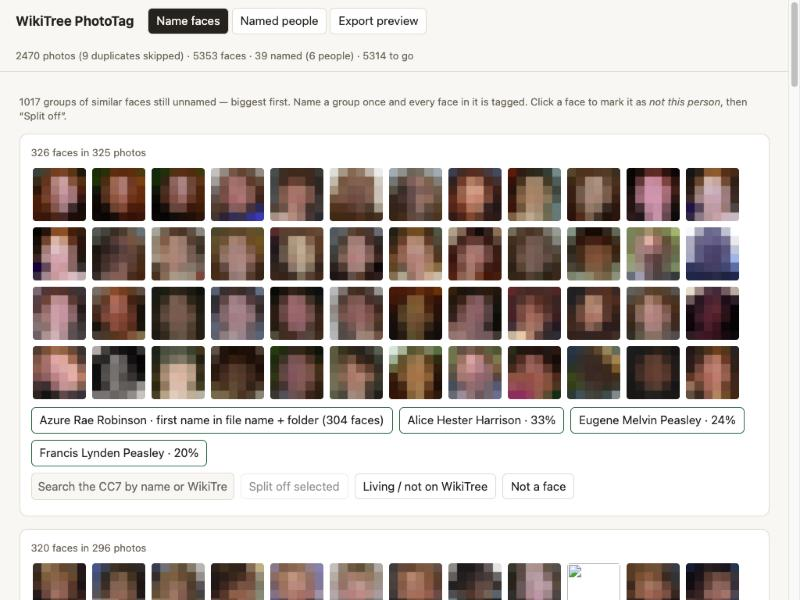
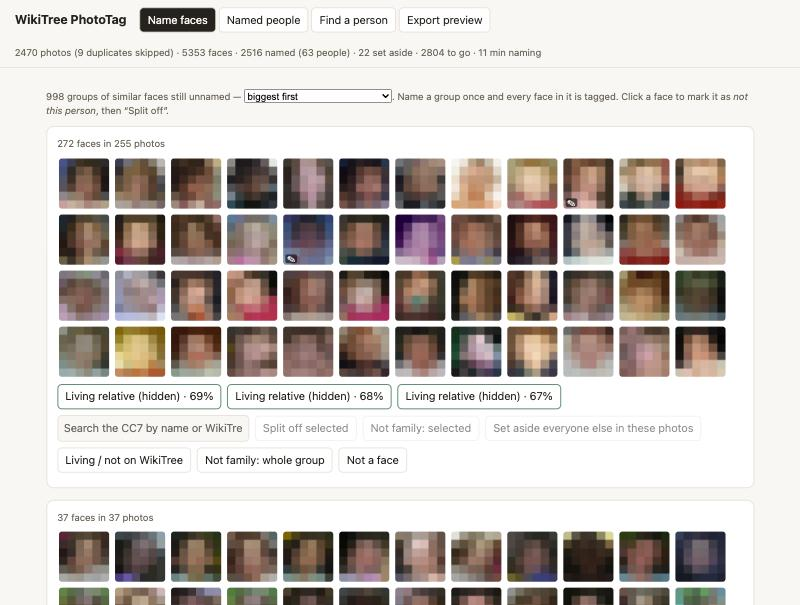
Refresh demo screenshots; blur mode hides living names; serialize requests
- new screenshots including the Find a person tab, from real data in blur mode
- blur mode hides living relatives' names and cards; --clear-born-before YEAR
  keeps recently deceased people pixelated in screenshots
- lock around request handling: parallel thumbnail requests shared one sqlite
  connection and some failed

diff --git a/phototag/web.py b/phototag/web.py
@@ -4,6 +4,7 @@ from __future__ import annotations
 import io
 import json
 import sqlite3
+import threading
 from http.server import BaseHTTPRequestHandler, ThreadingHTTPServer
 from pathlib import Path
 
@@ -53,12 +54,20 @@ def active_minutes(db: sqlite3.Connection, idle_gap_min: int = 5) -> float:
     return round(sum(min((b - a).total_seconds(), idle_gap_min * 60) for a, b in zip(t, t[1:])) / 60 if len(t) > 1 else 0.0, 1)
 
 
-def make_handler(db: sqlite3.Connection, roster: Roster, data_dir: Path, blur: bool = False, models_dir: Path | None = None):
+def make_handler(db: sqlite3.Connection, roster: Roster, data_dir: Path, blur: bool = False, models_dir: Path | None = None,
+                 clear_born_before: int | None = None):
     """blur=True hides every face except those named as deceased people, so the UI is safe to screenshot."""
     def is_public(person_id: str | None) -> bool:
-        return bool(person_id) and person_id not in (IGNORE, OTHER) and roster.is_deceased(person_id)
+        if not person_id or person_id in (IGNORE, OTHER) or not roster.is_deceased(person_id):
+            return False
+        if clear_born_before:   # screenshots: only the older generation stays unblurred
+            p = roster.get(person_id)
+            return bool(p and p.birth_year and p.birth_year < clear_born_before)
+        return True
 
     def person_json(pid):
+        if blur and pid != OTHER and not is_public(pid):   # screenshots must not name living relatives either
+            return {"id": pid, "label": "Living relative (hidden)", "name": "Living relative", "deceased": False}
         p = roster.get(pid)
         if pid == OTHER:
             return {"id": pid, "label": "Not family / unknown (set aside)", "name": "Not family", "deceased": False}
@@ -67,6 +76,8 @@ def make_handler(db: sqlite3.Connection, roster: Roster, data_dir: Path, blur: b
         if not p:
             return {"id": pid, "label": pid, "deceased": False}
         return {"id": p.id, "label": p.label, "name": p.name, "deceased": roster.is_deceased(p.id)}
+
+    lock = threading.Lock()   # one sqlite connection is shared by all request threads
 
     class Handler(BaseHTTPRequestHandler):
         def log_message(self, *a):
@@ -84,6 +95,14 @@ def make_handler(db: sqlite3.Connection, roster: Roster, data_dir: Path, blur: b
             self._send(json.dumps(obj).encode(), "application/json", status)
 
         def do_GET(self):
+            with lock:
+                self._get()
+
+        def do_POST(self):
+            with lock:
+                self._post()
+
+        def _get(self):
             from urllib.parse import urlparse, parse_qs
             u = urlparse(self.path)
             q = {k: v[0] for k, v in parse_qs(u.query).items()}
@@ -169,6 +188,8 @@ def make_handler(db: sqlite3.Connection, roster: Roster, data_dir: Path, blur: b
                 out = []
                 for r in db.execute("SELECT person_id, COUNT(*) n, COUNT(DISTINCT photo_id) photos FROM faces "
                                     "WHERE person_id IS NOT NULL AND person_id != '!ignore' GROUP BY person_id ORDER BY (person_id = '!other'), n DESC"):
+                    if blur and not is_public(r["person_id"]) and r["person_id"] != OTHER:
+                        continue
                     face_ids = [x[0] for x in db.execute("SELECT id FROM faces WHERE person_id=? ORDER BY score DESC LIMIT 14", (r["person_id"],))]
                     out.append({**person_json(r["person_id"]), "faces": r["n"], "photos": r["photos"], "face_ids": face_ids,
                                 "photo_ids": [x[0] for x in db.execute("SELECT photo_id FROM faces WHERE person_id=? ORDER BY score DESC LIMIT 14", (r["person_id"],))]})
@@ -200,7 +221,7 @@ def make_handler(db: sqlite3.Connection, roster: Roster, data_dir: Path, blur: b
                     "ready_people": len({p for d in ds if d.export for p in d.people})})
             self._json({"error": "unknown"}, 404)
 
-        def do_POST(self):
+        def _post(self):
             if self.headers.get("Content-Type", "").split(";")[0] != "application/json":
                 return self._json({"error": "json only"}, 415)
             body = json.loads(self.rfile.read(int(self.headers.get("Content-Length", 0))) or b"{}")
@@ -260,8 +281,9 @@ def make_handler(db: sqlite3.Connection, roster: Roster, data_dir: Path, blur: b
     return Handler
 
 
-def serve(db, roster, data_dir: Path, port: int = 8765, blur: bool = False, models_dir: Path | None = None):
-    server = ThreadingHTTPServer(("127.0.0.1", port), make_handler(db, roster, data_dir, blur, models_dir))
+def serve(db, roster, data_dir: Path, port: int = 8765, blur: bool = False, models_dir: Path | None = None,
+          clear_born_before: int | None = None):
+    server = ThreadingHTTPServer(("127.0.0.1", port), make_handler(db, roster, data_dir, blur, models_dir, clear_born_before))
     print(f"Labeling UI: http://127.0.0.1:{port}   (Ctrl-C to stop)" + ("   [privacy blur on]" if blur else ""))
     try:
         server.serve_forever()

diff --git a/phototag/cli.py b/phototag/cli.py
@@ -32,6 +32,8 @@ def main(argv=None):
     p.add_argument("--limit", type=int); p.add_argument("--model", default=backs.MODEL)
     p = sub.add_parser("label", help="open the local naming UI"); p.add_argument("--port", type=int, default=8765)
     p.add_argument("--blur", action="store_true", help="pixelate every face except deceased named people (safe for screenshots)")
+    p.add_argument("--clear-born-before", type=int, metavar="YEAR",
+                   help="with --blur: only people born before YEAR stay unblurred (e.g. 1950 keeps recently deceased relatives hidden)")
     p = sub.add_parser("accept", help="auto-name groups that clearly match people you already named")
     p.add_argument("--min", type=float, default=0.6, dest="min_score")
     p.add_argument("--hints", type=float, metavar="SHARE", help="also accept groups where one folder / full-name file name / caption hint covers this share of faces (e.g. 0.7)")
@@ -74,7 +76,7 @@ def main(argv=None):
         print(f"{backs.read_text(db, not a.all, a.limit, a.model)} scans had readable text")
     elif a.cmd == "label":
         scanning.backfill_saturation(db, a.data)
-        web.serve(db, roster, a.data, a.port, a.blur, ROOT / "models")
+        web.serve(db, roster, a.data, a.port, a.blur, ROOT / "models", a.clear_born_before)
     elif a.cmd == "seed":
         print(f"seeded {clustering.seed_from_filenames(db, roster)} faces from file names")
     elif a.cmd == "accept":

diff --git a/tests/test_web.py b/tests/test_web.py
@@ -56,3 +56,22 @@ def test_people_search_includes_locally_named_living_relatives(server):
     db.commit()
     found = json.load(urllib.request.urlopen(base + "/api/people?q=naomi%20ruth"))
     assert [p["id"] for p in found] == ["local:Naomi Ruth Robinson"]
+
+
+def test_blur_mode_hides_living_names_and_cards(roster, tmp_path):
+    db = dbm.connect(tmp_path)
+    pid = db.execute("INSERT INTO photos(path,rel,width,height) VALUES('x','x.jpg',10,10)").lastrowid
+    for who in ("Robinson-1", "Living-1", "local:Dan Robinson"):
+        db.execute("INSERT INTO faces(photo_id,x,y,w,h,score,emb,person_id,label_src) VALUES(?,0,0,.1,.1,.9,?,?,'user')",
+                   (pid, dbm.emb_to_blob(np.ones(128)), who))
+    db.commit()
+    srv = ThreadingHTTPServer(("127.0.0.1", 0), web.make_handler(db, roster, tmp_path, blur=True))
+    threading.Thread(target=srv.serve_forever, daemon=True).start()
+    try:
+        base = f"http://127.0.0.1:{srv.server_port}"
+        named = json.load(urllib.request.urlopen(base + "/api/named"))
+        assert [p["id"] for p in named] == ["Robinson-1"]                      # living and local-only cards are not listed
+        found = json.load(urllib.request.urlopen(base + "/api/people?q=azure%20rae"))
+        assert found and all("Azure" not in p["label"] for p in found)         # search results mask living names
+    finally:
+        srv.shutdown()

diff --git a/README.md b/README.md
@@ -45,7 +45,8 @@ python3 -m venv .venv && .venv/bin/pip install -e .
 .venv/bin/phototag seed          # optional: a one-face photo named "Alice Hester Harrison 001.jpg" names that face
 .venv/bin/phototag cluster
 .venv/bin/phototag label         # opens http://127.0.0.1:8765 : name each group once
-.venv/bin/phototag label --blur  # same, but every face except named deceased people is pixelated (safe to screenshot)
+.venv/bin/phototag label --blur  # same, but every face except named deceased people is pixelated and living names are hidden (safe to screenshot)
+.venv/bin/phototag label --blur --clear-born-before 1950   # ...and only people born before 1950 stay unblurred
 .venv/bin/phototag export        # writes ./out/<WikiTree-Id>/… and captions.csv
 .venv/bin/phototag xmp           # optional: dry run of tagging the album itself; add --write to create the sidecars
 ```
@@ -56,11 +57,13 @@ Uploading to WikiTree stays manual: open the profile, add the photo, paste the c
 
 ## Demo (faces of anyone who may be living are pixelated)
 
-| Name each group once | Everyone named so far | Nothing leaves unless it is safe |
-|---|---|---|
-| ![](docs/demo-1-name-faces-blurred.jpg) | ![](docs/demo-2-named-people.jpg) | ![](docs/demo-3-export-preview.jpg) |
+| Name each group once | Everyone named so far | Find a person | Nothing leaves unless it is safe |
+|---|---|---|---|
+| ![](docs/demo-1-name-faces-blurred.jpg) | ![](docs/demo-2-named-people.jpg) | ![](docs/demo-5-find-a-person.jpg) | ![](docs/demo-3-export-preview.jpg) |
 
-A 19-person family photo: one man is named (a deceased relative), every other face is pixelated, including faces the main detector missed (a second, more sensitive pass over-blurs).
+Screenshots are taken with `phototag label --blur --clear-born-before 1950`: every face is pixelated, and living relatives' names are hidden, except named deceased people born before 1950.
+
+A 19-person family photo: four older relatives are named, every other face is pixelated, including faces the main detector missed (a second, more sensitive pass over-blurs).
 
 ![](docs/demo-4-multi-person-photo.jpg)
 
